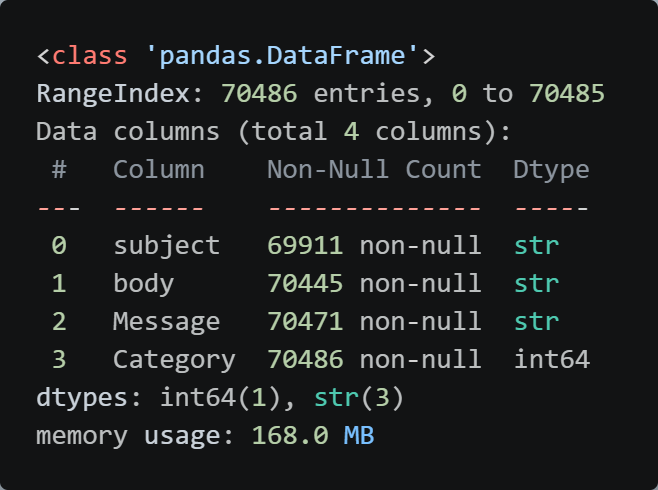
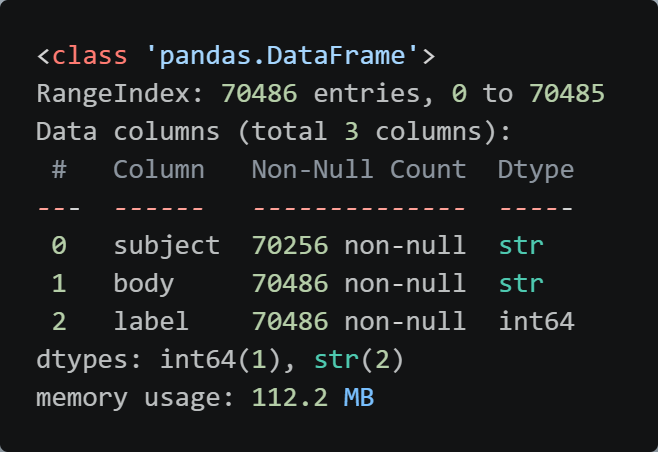
chore: adds export for spam_unprocessed.csv

Changed region(s): [[0.0304, 0.0929, 0.9422, 0.9292], [0.7599, 0.4646, 0.9119, 0.7743]]

diff --git a/src/preprocessing/build_datasets.py b/src/preprocessing/build_datasets.py
@@ -26,6 +26,7 @@ def build_datasets():
 
     combined = pd.concat(frames, ignore_index=True)
     print(f"Combined raw rows: {len(combined)}")
+    combined.to_csv(RAW_DIR / "spam_unprocessed.csv", index=False)
 
     spam_df = run_cleaning_pipeline(combined)
     spam_df.to_csv(OUT_DIR / "spam.csv", index=False)
